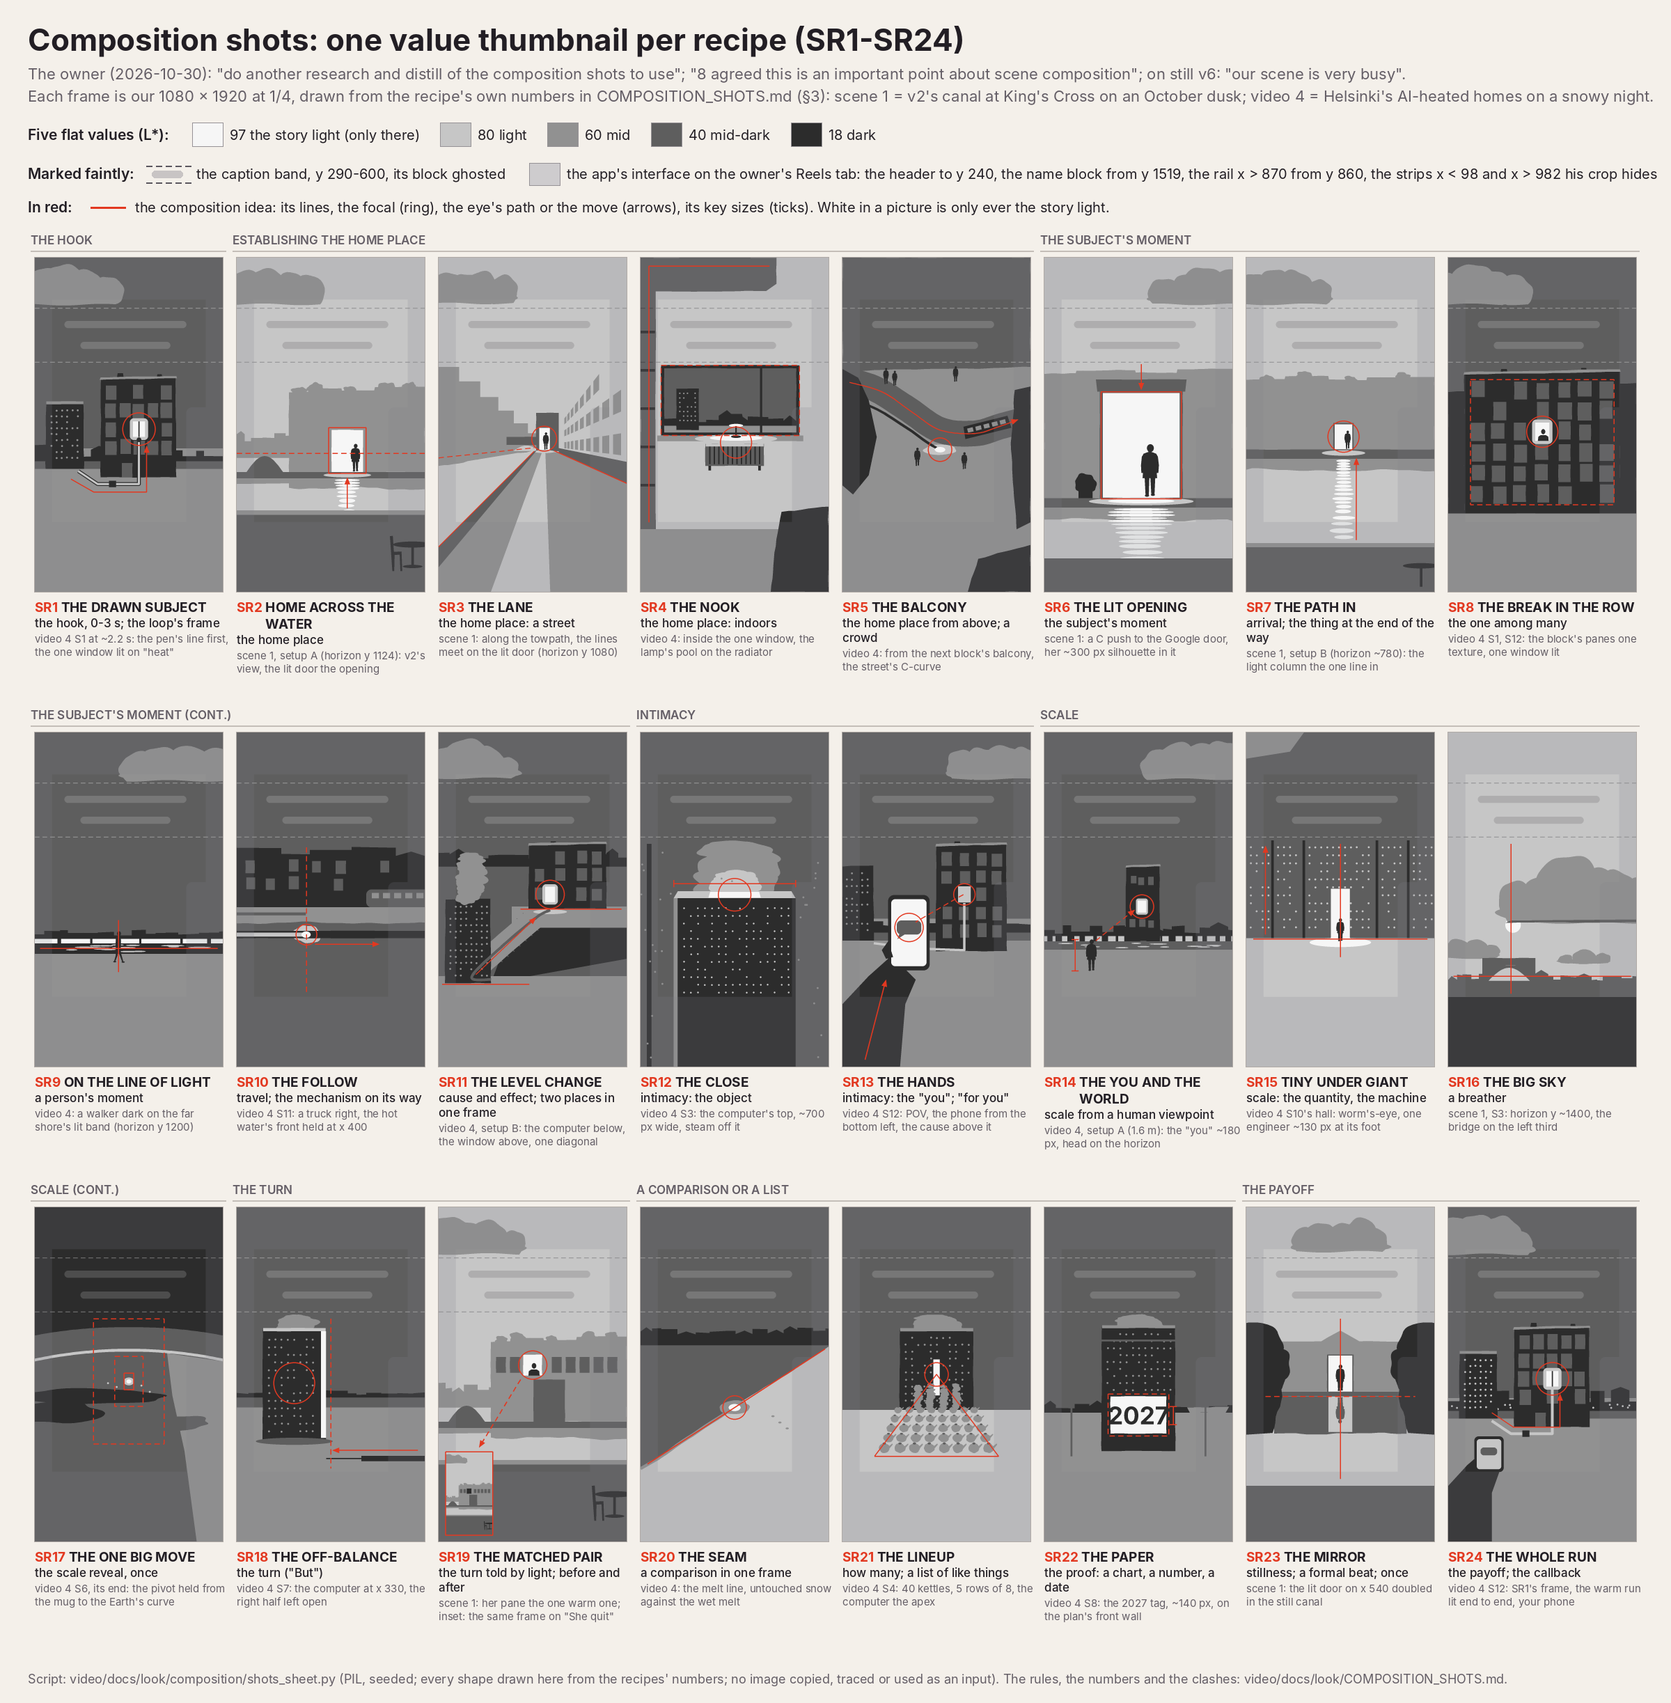
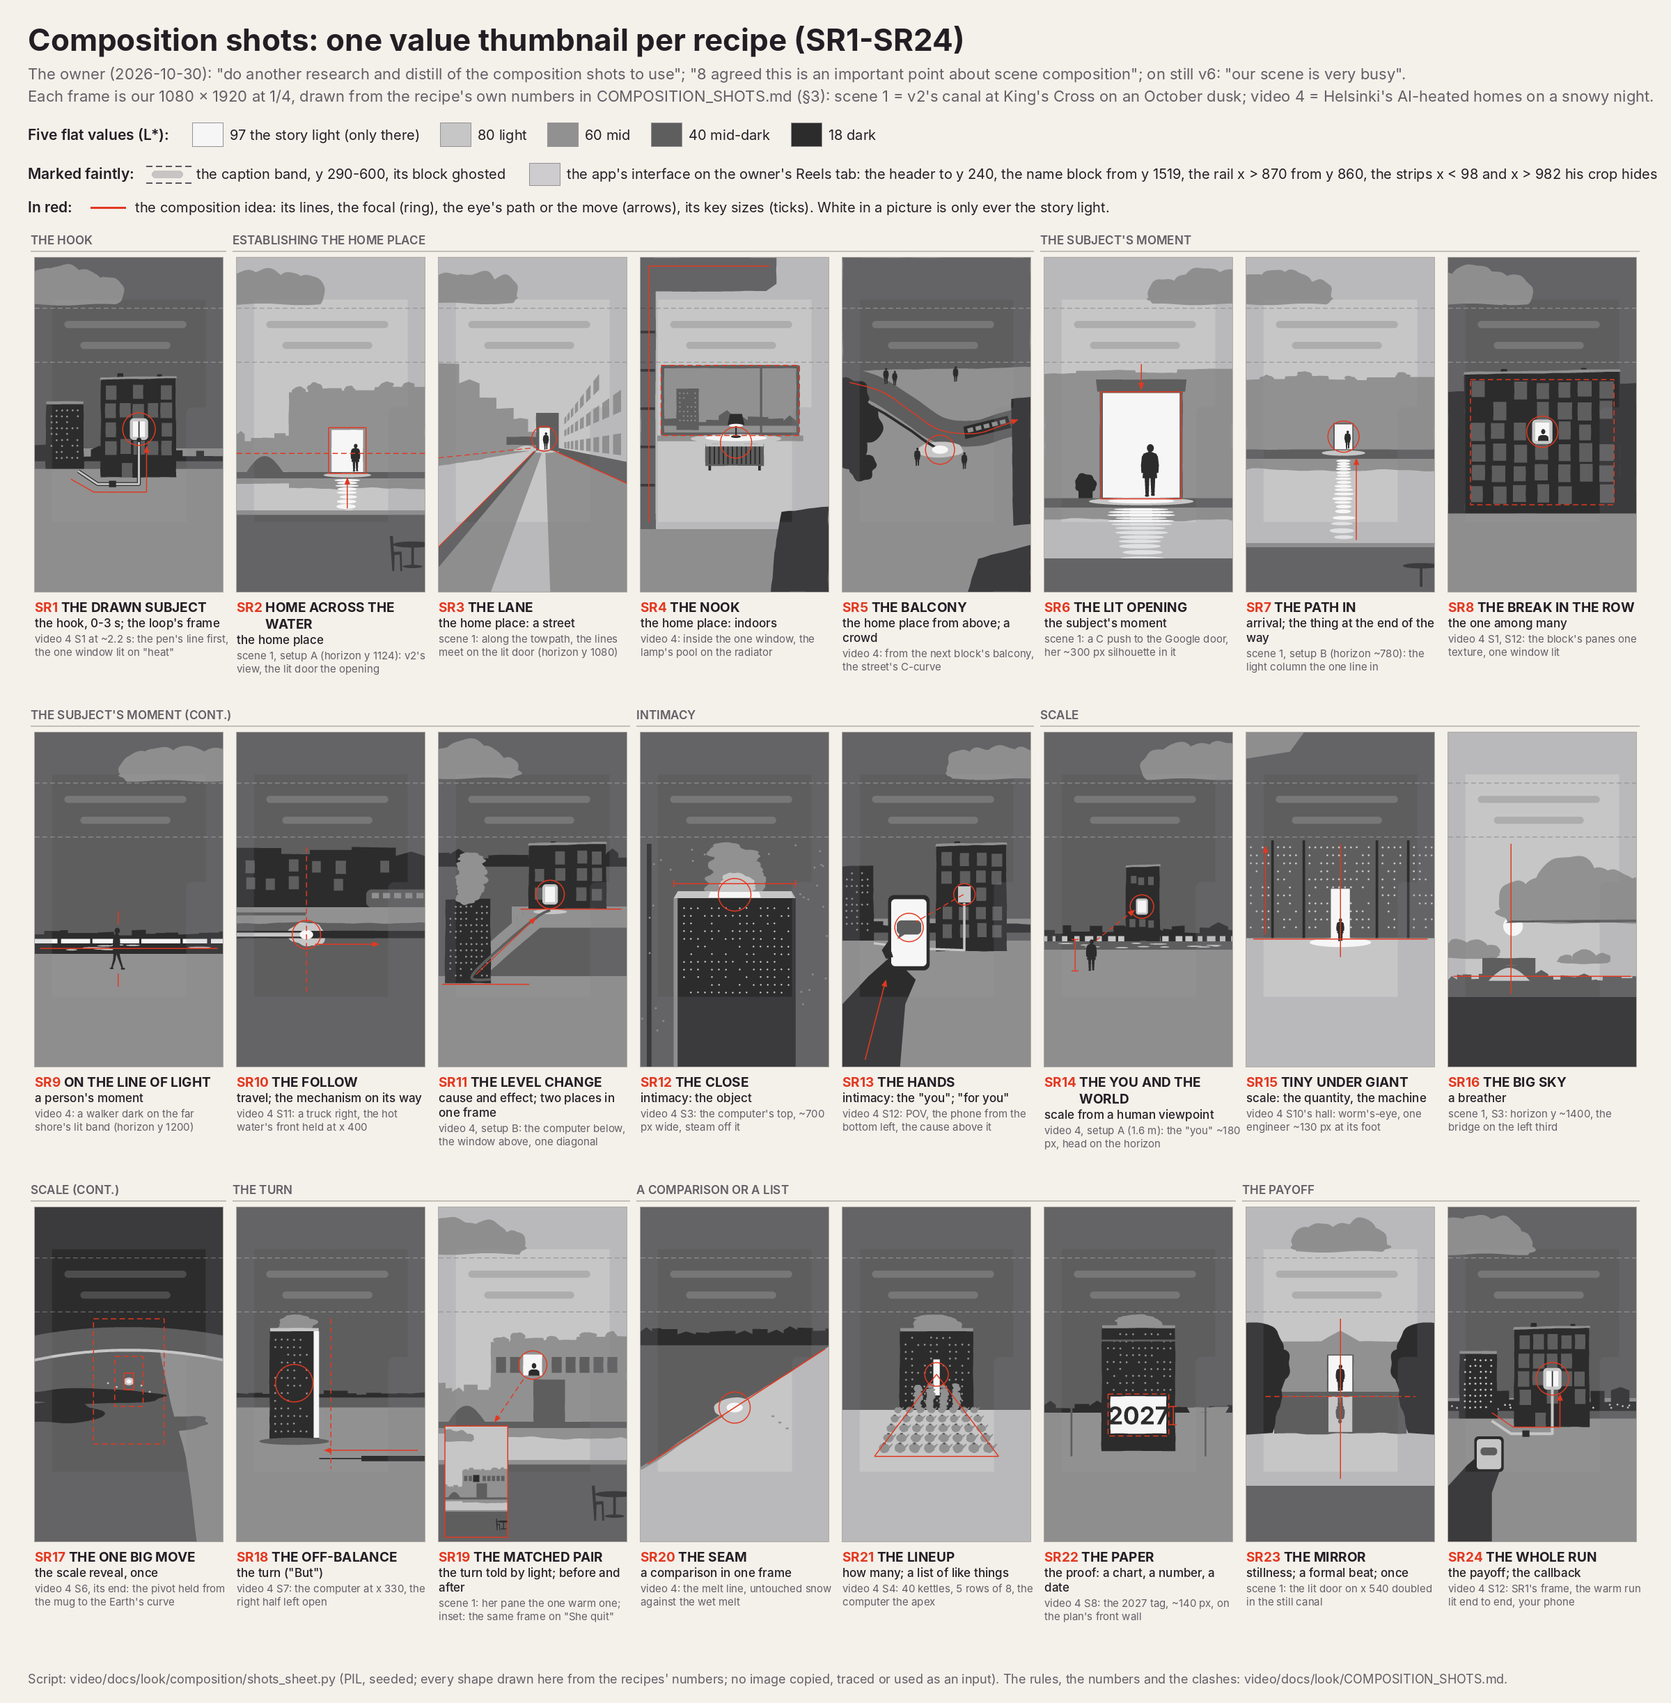
Composition shots: the shot library COMPOSITION_SHOTS.md (24 recipes, 13 rules), the research (reels, cinema, vertical), the thumbnail sheet
Claude-Session: https://claude.ai/code/session_01YGLGMqbgdpycjemYZL3aoL

diff --git a/video/docs/look/composition/shots_sheet.py b/video/docs/look/composition/shots_sheet.py
@@ -159,7 +159,7 @@ class Frame:
         self.dr = ImageDraw.Draw(self.im)
         self.rng = np.random.default_rng(seed)
         self.guides = []
-        self.inset = None          # (Frame, (x, y)): a second frame shown at 1/4 inside this one (SR19)
+        self.inset = None          # (Frame, (x, y), scale): a second frame shown small inside this one (SR19)
         self.focal = None          # the beat's focal centre (checks)
 
     # -- fills --------------------------------------------------------------------------------------------------------
@@ -431,9 +431,10 @@ def thumbnail(fr):
     band_dark = GREY_TO_L.get(int(np.median(band)), 50) < 55
     rgba = furniture(rgba, band_dark)
     if fr.inset is not None:
-        sub, (ix, iy) = fr.inset
-        sg = sub.im.resize((TW, TH), Image.BOX)
-        rgba.paste(Image.merge('RGBA', (sg, sg, sg, Image.new('L', (TW, TH), 255))), (ix, iy))
+        sub, (ix, iy), k = fr.inset
+        size = (int(FW * k), int(FH * k))
+        sg = sub.im.resize(size, Image.LANCZOS)
+        rgba.paste(Image.merge('RGBA', (sg, sg, sg, Image.new('L', size, 255))), (ix, iy))
     rgba = draw_guides(rgba, fr.guides)
     return rgba.convert('RGB').resize((TW, TH), Image.BOX)
 
@@ -486,6 +487,7 @@ def s1_home(fr, office=None, door='W', horizon=1124):
     fr.cloud(170, 150, 660, 236, 'M')                                   # the hero cloud, cut by the left edge
     fr.skyline(0, 330, 1150, (1004, 1066), 'M', wmin=36, wmax=86, gable=0.25)   # the far city by the sun, low
     fr.rect(0, 1082, 334, 1136, 'M', amp=2)                             # the bridge's deck
+    fr.rect(0, 1130, 334, 1232, 'M', amp=1.5)                           # its body
     fr.poly([(56 + 210 * t, 1232 - 92 * math.sin(math.pi * t)) for t in np.linspace(0, 1, 30)], 'D')  # its arch
     roof = [(300, 794), (300, 774), (410, 770), (414, 754), (600, 750), (604, 764), (790, 762), (794, 744),
             (1080, 742)]
@@ -555,8 +557,11 @@ def sr3():
     while x < 560:
         w = 70 + 60 * (1 - x / 560.0) * fr.rng.uniform(0.7, 1.2)
         xe = min(560.0, x + w)
-        t = top(x) + fr.rng.uniform(-16, 10)
-        pts += [(x, t), (xe, t)]
+        t = top(x) + fr.rng.uniform(-44, 22) * (1 - x / 700.0)
+        if fr.rng.random() < 0.35 and xe - x > 50:
+            pts += [(x, t), ((x + xe) / 2, t - fr.rng.uniform(14, 30) * (1 - x / 700.0)), (xe, t)]
+        else:
+            pts += [(x, t), (xe, t + fr.rng.uniform(-6, 6))]
         x = xe
     pts += [(560, 1090)]
     fr.poly(pts, 'M')
@@ -599,21 +604,21 @@ def sr4():
     """The nook inside the flat behind the one window: refuge on two edges and the top, one opening, the low lamp's
     pool on the sill and the radiator (the subject) under it; the snowy street a cool step darker in the glass."""
     fr = Frame(4, 'L')                                                  # the room's wall: the band lies on it
-    fr.rect(118, 618, 912, 1022, 'K', amp=2)                            # the window's frame
-    fr.rect(136, 636, 894, 1004, 'D', amp=1.5)                          # the glass: the night outside
-    fr.skyline(136, 894, 1004, (900, 948), 'K', wmin=56, wmax=130, gable=0.3)
-    fr.rect(136, 966, 894, 1004, 'M')                                   # the street's snow, a cool step down
-    fr.rect(206, 752, 334, 990, 'K', amp=1.5)                           # the giant computer by the harbour
+    fr.rect(118, 618, 912, 1022, 'D', amp=2)                            # the window's frame
+    fr.rect(136, 636, 894, 1004, 'M', amp=1.5)                          # the glass: the night, a cool step down
+    fr.skyline(136, 894, 1004, (900, 948), 'D', wmin=56, wmax=130, gable=0.3)   # the far roofs
+    fr.rect(136, 966, 894, 1004, 'M')                                   # the street's snow
+    fr.rect(206, 752, 334, 990, 'D', amp=1.5)                           # the giant computer by the harbour
     fr.dots(np.arange(226, 320, 22), np.arange(780, 960, 26), 4, 'M', skip=0.3, jit=1)
-    fr.rect(686, 636, 698, 1004, 'K')                                   # one mullion, clear of the landmark
+    fr.rect(686, 636, 698, 1004, 'D')                                   # one mullion, clear of the landmark
     fr.rect(96, 1022, 934, 1054, 'M', amp=1.5)                          # the sill
     fr.hpoly([(0, 0), (780, 0), (780, 150), (720, 192), (0, 196)], 'D', amp=2)   # the soffit over the top-left
     fr.rect(0, 190, 86, 1920, 'D', amp=2)                               # the bookcase, cut by the left edge
     for y in (420, 640, 860, 1080, 1300):
         fr.rect(0, y, 82, y + 14, 'K')
     fr.rect(0, 1560, 1080, 1920, 'M')                                   # the floor
-    fr.ell(548, 1040, 236, 24, 'L')                                     # the lamp's pool, falling off
-    fr.ell(548, 1036, 150, 15, 'W')
+    fr.ell(548, 1040, 260, 26, 'L')                                     # the lamp's pool, falling off
+    fr.ell(548, 1036, 176, 17, 'W')
     fr.rect(372, 1070, 708, 1196, 'D', amp=1.5)                         # the radiator: the subject
     for x in range(394, 700, 26):
         fr.rect(x, 1084, x + 7, 1186, 'K')
@@ -640,12 +645,13 @@ def sr5():
     centre = [(-80, 690), (160, 742), (360, 860), (560, 990), (760, 1010), (920, 966), (1120, 912)]
     fr.poly(ribbon(centre, 74), 'D')                                    # the street: one C-curve
     kerb = [(x, y + 112) for x, y in centre]
-    fr.blob(560, 1104, 92, 30, 'L', 0.06)                               # the front's glow on the snow
+    fr.blob(560, 1104, 132, 46, 'L', 0.06)                              # the front's glow on the snow
     melt = [p for p in catmull(kerb, 10) if p[0] <= 540]
     fr.line(melt, 'K', 15)                                              # the melt line behind the front
-    fr.ell(560, 1103, 30, 15, 'W')                                      # the warm water's front: the story light
-    fr.poly([(0, 640), (-10, 1300), (60, 1360), (150, 1250), (196, 1030), (150, 820), (90, 690)], 'K')  # side mass
-    fr.hpoly([(990, 760), (1080, 740), (1080, 1520), (1000, 1560), (968, 1100)], 'K', amp=3)  # the mouth's mass
+    fr.ell(560, 1103, 46, 23, 'W')                                      # the warm water's front: the story light
+    for bx, by, r in ((30, 800, 116), (96, 940, 138), (24, 1090, 120), (110, 1200, 84)):
+        fr.blob(bx, by, r, r * 0.9, 'K', 0.14)                          # a tree's crown from above, cut by the edge
+    fr.hpoly([(970, 812), (1080, 800), (1080, 1530), (982, 1540)], 'K', amp=2)   # the corner the street dives under
     # the tram on the curve, going the other way
     a = math.radians(-14)
     cx, cy = 830, 975
@@ -659,7 +665,7 @@ def sr5():
         fr.person(x, y, P, 'K')                                         # walkers, small, in twos and threes
     fr.hpoly([(720, 1920), (780, 1730), (1080, 1650), (1080, 1920)], 'K', amp=3)  # our balcony's corner, cut twice
     fr.g('curve', [(40, 716), (230, 772), (400, 888), (560, 990), (760, 1010), (900, 970), (1010, 930)], arrow=True)
-    fr.g('ring', 560, 1103, 70)
+    fr.g('ring', 560, 1103, 86)
     fr.focal = (560, 1103)
     return fr
 
@@ -750,13 +756,14 @@ def sr9():
     for x in (130, 318, 600, 836, 990):
         fr.rect(x, yh - 14, x + fr.rng.uniform(10, 24), yh + 12, 'K')
     fr.rect(0, yh + 12, 1080, 1272, 'K')                                # the harbour
-    for _ in range(16):
+    for _ in range(9):
         x, y = fr.rng.uniform(0, 1000), fr.rng.uniform(yh + 20, 1262)
         fr.ell(x, y, fr.rng.uniform(26, 70), 3.5, 'L')                  # the line, broken in the water
     fr.rect(0, 1272, 1080, 1920, 'M')                                   # the quay's snow
-    fr.person(480, 1322, 180, 'K', view='side')                         # the walker, ~180 px, its lead room ahead
+    fr.person(470, 1362, 240, 'K', view='side')                         # the walker, ~240 px, its lead room ahead
     fr.g('line', [(30, yh + 40), (1050, yh + 40)])                      # the cross: the lit line (just under it) ...
-    fr.g('line', [(480, 1078), (480, 1376)])                            # ... and the one upright on it
+    fr.g('line', [(478, 1026), (478, 1100)])                            # ... and the one upright on it
+    fr.g('line', [(478, 1386), (478, 1460)])
     fr.focal = (480, yh)
     return fr
 
@@ -773,13 +780,13 @@ def sr10():
     fr.rect(0, 1004, 1080, 1060, 'M')                                   # the street's snow
     fr.rect(0, 1034, 396, 1050, 'D')                                    # the melt just behind the front
     fr.poly([(0, 1060), (1080, 1060)] + wobble((1080, 1092), (0, 1096), 8, fr.rng, 28), 'M')   # the cut's soft edge
-    fr.blob(404, 1160, 78, 52, 'L', 0.08)                               # the front's glow in the ground
+    fr.blob(404, 1160, 104, 70, 'L', 0.08)                              # the front's glow in the ground
     fr.rect(0, 1140, 1080, 1182, 'K', amp=1)                            # the pipe
     fr.rect(0, 1150, 384, 1172, 'L')                                    # the hot water behind its front
-    fr.ell(398, 1161, 26, 18, 'W')                                      # the front: the story light
+    fr.ell(400, 1161, 38, 26, 'W')                                      # the front: the story light
     fr.g('line', [(400, 660), (400, 1500)], dash=True)                  # held at x 400 on screen
     fr.g('arrow', [(450, 1216), (820, 1216)])                           # its travel, and its lead room
-    fr.g('ring', 400, 1161, 62)
+    fr.g('ring', 400, 1161, 84)
     fr.focal = (400, 1161)
     return fr
 
@@ -800,7 +807,7 @@ def sr11():
     fr.rrect(596, 872, 684, 988, 20, 'L')
     fr.rect(612, 886, 668, 974, 'W')                                    # the one window
     fr.ell(640, 1030, 96, 13, 'L')                                      # its pool on the snow
-    fr.poly([(420, 1122), (1080, 1122), (1080, 1300), (300, 1440)], 'K')  # the retaining wall between the levels
+    fr.poly([(420, 1122), (1080, 1122), (1080, 1300), (300, 1440)], 'D')  # the retaining wall between the levels
     # the steps down to the harbour front, the melt line climbing them
     ramp = ribbon([(560, 1060), (360, 1230), (160, 1410)], 62)
     fr.poly(ramp, 'M')
@@ -826,8 +833,9 @@ def sr12():
     below the band, the snowy night one quiet dark field behind."""
     fr = Frame(12, 'D')
     fr.rect(36, 640, 62, 1920, 'K')                                     # a post, cut by the left edge
-    fr.steam(540, 930, 640, 520, 'M', sway=40)                          # the steam, thinning below the band
-    fr.steam(540, 930, 820, 300, 'L', sway=20)
+    fr.steam(500, 930, 650, 300, 'M', sway=46)                          # the steam, thinning below the band
+    fr.steam(610, 930, 700, 250, 'M', sway=-30)
+    fr.steam(545, 930, 830, 230, 'L', sway=16)
     fr.poly([(214, 912), (866, 912), (890, 952), (190, 952)], 'L')      # its top, catching the light
     fr.poly([(400, 916), (680, 916), (690, 948), (390, 948)], 'W')      # the melt, lit: the story light
     fr.rect(190, 952, 890, 1920, 'K')                                   # its face, the deepest
@@ -928,7 +936,7 @@ def sr16():
     """The big sky (S3): a low horizon (y ~1400); one cloud bank in planes below the band; the sun half behind its
     edge; the bridge's arch the one landmark on the left third."""
     fr = Frame(16, 'L')
-    fr.ell(372, 1106, 44, 44, 'W')                                      # the sun, half behind the bank's edge
+    fr.ell(372, 1112, 56, 56, 'W')                                      # the sun, half behind the bank's edge
     fr.cloud(760, 905, 940, 390, 'M', lobes=6, base=1094)               # the bank: the near plane, cut by the right
     fr.poly(wobble((330, 1093), (1080, 1090), 4, fr.rng, 40) + [(1080, 1074), (360, 1080)], 'D')   # its shade underside
     fr.cloud(110, 1236, 380, 120, 'M', lobes=4)                         # a far, smaller cloud, cut by the left edge
@@ -954,7 +962,8 @@ def sr17():
     fr.poly([(x, arc(x) - 130 - 10 * abs(x - 540) / 540) for x in xs] + [(x, arc(x)) for x in xs[::-1]], 'D')
     fr.poly([(x, arc(x)) for x in xs] + [(1080, 1920), (0, 1920)], 'D')     # the Earth at dusk
     fr.poly([(x, arc(x) - 7) for x in xs] + [(x, arc(x) + 9) for x in xs[::-1]], 'L')   # the limb's light
-    fr.poly([(760, arc(760) + 9), (1080, arc(1080) + 9), (1080, 1920), (930, 1920), (860, 1400), (790, 1080)], 'M')
+    term = catmull([(720, arc(720) + 9), (790, 1160), (870, 1450), (930, 1920)], 12)
+    fr.poly([(x, arc(x) + 9) for x in np.linspace(720, 1080, 20)] + [(1080, 1920)] + term[::-1], 'M')   # dusk side
     fr.blob(330, 1086, 420, 42, 'K', 0.10)                              # the gulf
     fr.blob(140, 1180, 260, 60, 'K', 0.12)
     fr.blob(820, 1240, 180, 40, 'D', 0.15)                              # cloud over the dusk side, a step down
@@ -974,17 +983,17 @@ def sr18():
     fr = Frame(18, 'D')
     fr.skyline(0, 1080, 1092, (1052, 1076), 'K', wmin=40, wmax=110, gable=0.1)
     fr.rect(0, 1150, 1080, 1920, 'M')                                   # the plan's snowy floor
-    fr.steam(330, 712, 630, 240, 'M', sway=24)
-    fr.hpoly([(150, 706), (510, 700), (512, 1334), (148, 1334)], 'K', amp=2)   # the giant computer: the heavy mass
-    fr.rect(484, 712, 512, 1324, 'W')                                   # the raking key on its edge: the story light
-    fr.rect(152, 694, 510, 712, 'L', amp=1)
-    fr.dots(np.arange(186, 470, 36), np.arange(760, 1300, 44), 5, 'M', skip=0.3)
-    fr.ell(330, 1344, 220, 20, 'D')                                     # its shadow on the snow
+    fr.steam(330, 712, 630, 220, 'M', sway=24)
+    fr.hpoly([(190, 706), (470, 700), (472, 1334), (188, 1334)], 'K', amp=2)   # the giant computer: the heavy mass
+    fr.rect(442, 712, 472, 1324, 'W')                                   # the raking key on its edge: the story light
+    fr.rect(192, 694, 470, 712, 'L', amp=1)
+    fr.dots(np.arange(222, 430, 36), np.arange(760, 1300, 44), 5, 'M', skip=0.3)
+    fr.ell(330, 1344, 200, 20, 'D')                                     # its shadow on the snow
     fr.rect(716, 1428, 1080, 1458, 'K')                                 # the city's pipe, ending short
-    fr.line([(716, 1443), (514, 1443)], 'K', 7)                         # the stretch the pen draws: empty
+    fr.line([(716, 1443), (474, 1443)], 'K', 7)                         # the stretch the pen draws: empty
     fr.g('line', [(540, 640), (540, 1500)], dash=True)                  # the axis it left
-    fr.g('arrow', [(1040, 1396), (548, 1396)])                          # the reach across the open half
-    fr.g('ring', 330, 1010, 120)
+    fr.g('arrow', [(1040, 1396), (500, 1396)])                          # the reach across the open half
+    fr.g('ring', 330, 1010, 110)
     fr.focal = (330, 1010)
     return fr
 
@@ -996,9 +1005,9 @@ def sr19():
     s1_home(fr, office='lit', door='D')
     after = Frame(19, 'L')
     s1_home(after, office='dark', door='D')
-    fr.inset = (after, (40, 1404))
-    fr.g('box', 40, 1404, 40 + TW, 1404 + TH)
-    fr.g('arrow', [(470, 990), (232, 1380)], dash=True)
+    fr.inset = (after, (36, 1256), 1 / 3)
+    fr.g('box', 36, 1256, 36 + 360, 1256 + 640)
+    fr.g('arrow', [(486, 990), (320, 1236)], dash=True)
     fr.g('ring', 540, 906, 84)
     fr.focal = (540, 906)
     return fr
@@ -1013,12 +1022,12 @@ def sr20():
     fr.poly(seam + [(1080, 1920), (0, 1920)], 'L')                      # untouched snow
     lit = [p for p in seam if p[0] <= 540]
     fr.line(lit, 'M', 18)
-    fr.blob(540, 1150, 84, 40, 'M', 0.06)
-    fr.ell(540, 1150, 34, 20, 'W')                                      # the front: the story light
+    fr.blob(540, 1150, 116, 56, 'L', 0.06)
+    fr.ell(540, 1150, 46, 27, 'W')                                      # the front: the story light
     for x, y in ((760, 1200), (800, 1236), (842, 1270)):                # footprints across the untouched side
         fr.ell(x, y, 9, 5, 'M')
     fr.g('line', [(40, 1474), (1060, 813)])                             # the seam
-    fr.g('ring', 540, 1150, 70)
+    fr.g('ring', 540, 1150, 92)
     fr.focal = (540, 1150)
     return fr
 

diff --git a/video/docs/look/COMPOSITION_SHOTS.md b/video/docs/look/COMPOSITION_SHOTS.md
@@ -194,6 +194,11 @@ Each rule is numbers for our frame, then where it comes from. "Proposal" marks w
 
 ## 2. The library at a glance
 
+**Thumbnails:** `composition/shots_sheet.png`, one value thumbnail per recipe (our frame at 1/4, 270 x 480: five flat
+values, white kept for the story light; the caption band and the app's interface on the owner's Reels tab marked
+faintly; the composition idea in red), each in scene 1 or video 4 as its example says, drawn from the recipe's numbers
+by `composition/shots_sheet.py` (seeded; no image copied or traced).
+
 Pick by the beat (§4 has the checklist). **By beat:** the hook SR1 · establishing the home place SR2-SR5 · the subject's
 moment SR6-SR11 · a reveal SR6 (through the opening), SR10 (the tilt), SR15 (the tilt-up), SR17 (the big move), SR4 (out
 through the window) · the turn SR18, SR19 · scale SR14-SR17 · intimacy SR12, SR13 · a comparison SR20, SR19, SR11 · a
